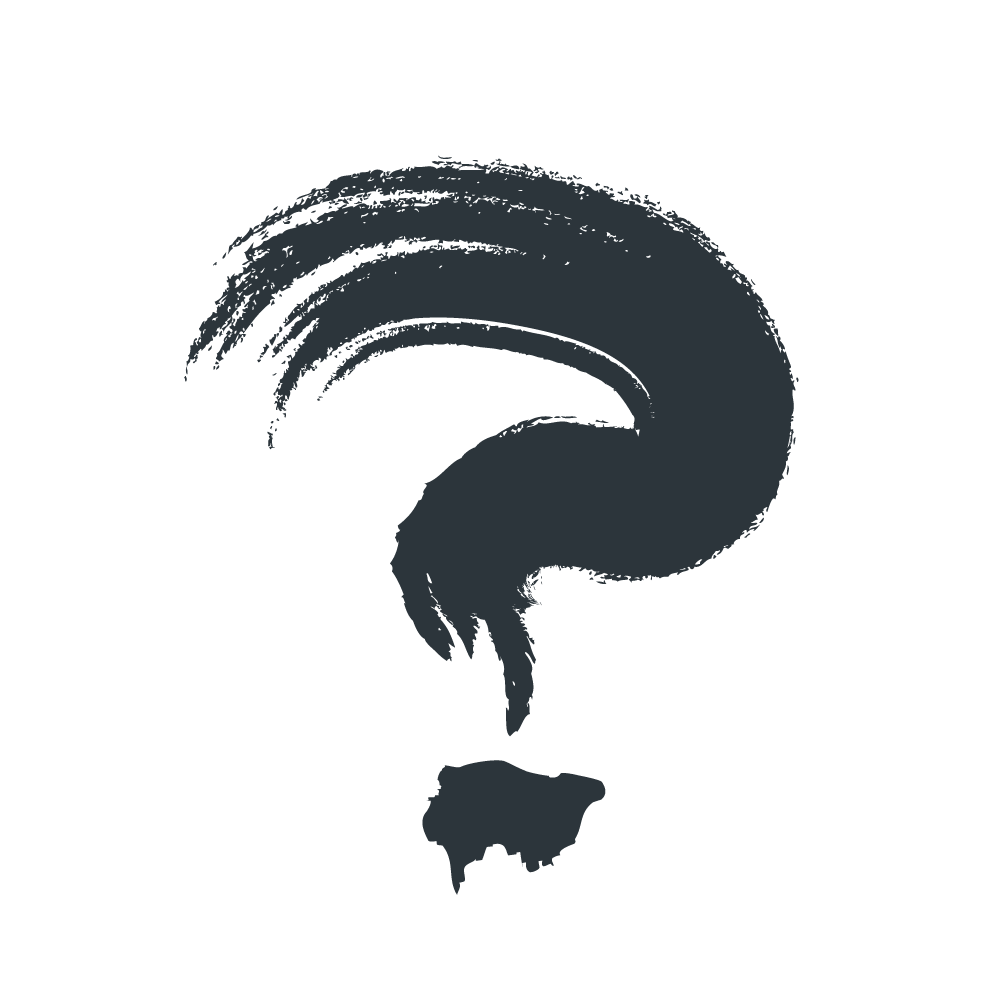
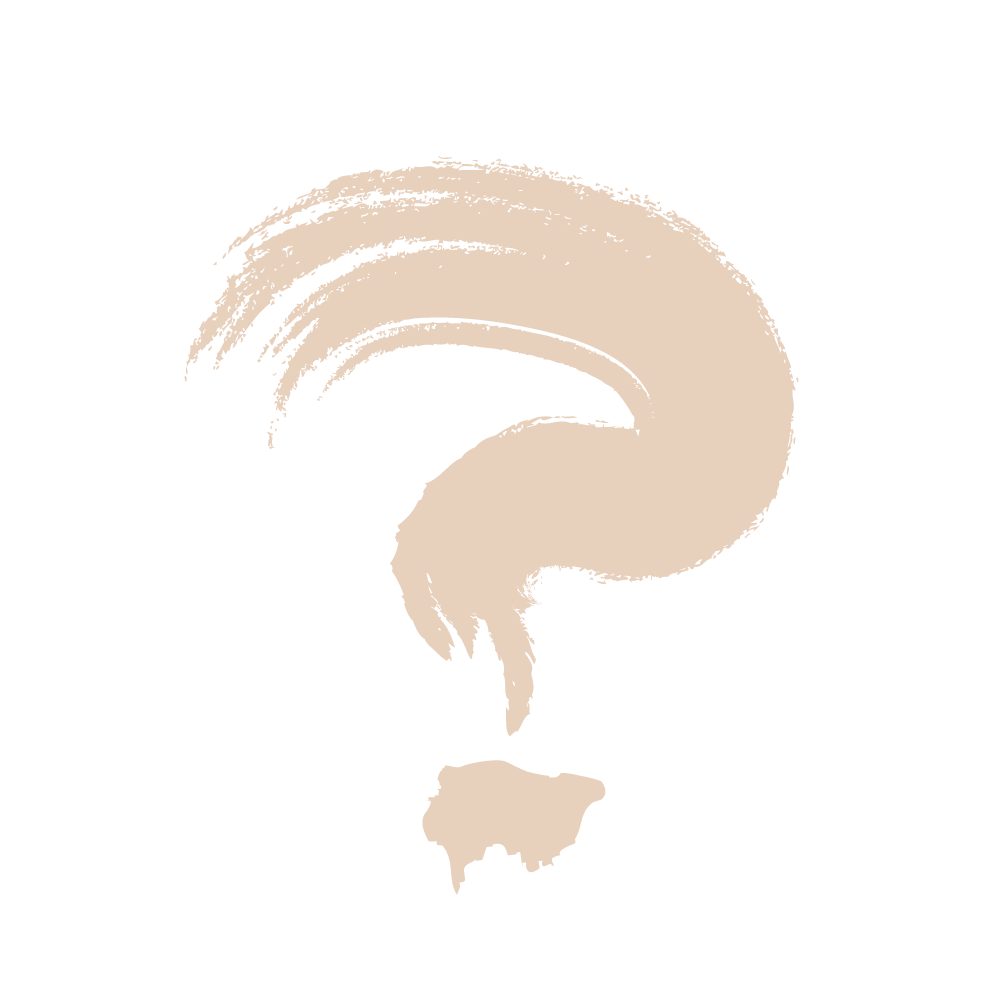
Created colouring using extra images

Changed region(s): [[0.186, 0.155, 0.806, 0.899]]

diff --git a/thankyou.html b/thankyou.html
@@ -22,7 +22,9 @@
     </ul>
 
 
-    <header>
+
+
+    <header class="masthead">
         <div class="grid" role="banner">
             <div class="unit xs-1 s-1 m-1-3 l-1-3 clr2">
               <a href="index.html">
@@ -62,20 +64,8 @@
 
         </div>
       </div>
-
     </header>
 
-
-        <footer class="grid clr2">
-          <div class="unit xs-1 s-1 m-1-3 l-1-3">
-              <a href="index.html">
-                <div class="embed embed--3by1">
-                    <img class="embed__item" src="imgs/inkdwork.png" alt="footer logo">
-                </div>
-              </a>
-            <p>© 2015 Ink'd Work</p>
-          </div>
-        </footer>
 
   </body>
 </html>

diff --git a/sign-up.html b/sign-up.html
@@ -21,8 +21,7 @@
 
     </ul>
 
-
-    <header>
+    <header class="masthead">
         <div class="grid" role="banner">
             <div class="unit xs-1 s-1 m-1-3 l-1-3 clr2">
               <a href="index.html">
@@ -46,7 +45,7 @@
 
               <li>
                 <a href="sign-up.html">
-                  <div class="embed embed--1by1 navicons"><img class="embed__item icon" src="imgs/inkdwork_signicon.png" alt="tour logo"></div>
+                  <div class="embed embed--1by1 navicons"><img class="embed__item icon" src="imgs/inkdwork_signicon2.png" alt="tour logo"></div>
                 </a>
               </li>
             </ol>

diff --git a/pricing.html b/pricing.html
@@ -22,7 +22,7 @@
     </ul>
 
 
-    <header>
+    <header class="masthead">
         <div class="grid" role="banner">
             <div class="unit xs-1 s-1 m-1-3 l-1-3 clr2">
               <a href="index.html">
@@ -40,7 +40,7 @@
 
               <li>
                 <a href="pricing.html">
-                  <div class="embed embed--1by1 navicons"><img class="embed__item icon" src="imgs/inkdwork_priceicon.png" alt="tour logo"></div>
+                  <div class="embed embed--1by1 navicons"><img class="embed__item icon" src="imgs/inkdwork_priceicon2.png" alt="tour logo"></div>
                 </a>
               </li>
 

diff --git a/tour.html b/tour.html
@@ -34,7 +34,7 @@
             <ol>
               <li>
                 <a href="tour.html">
-                  <div class="embed embed--1by1 navicons"><img class="embed__item icon" src="imgs/inkdwork_touricon.png" alt="tour icon"></div>
+                  <div class="embed embed--1by1 navicons"><img class="embed__item icon" src="imgs/inkdwork_touricon2.png" alt="tour icon"></div>
                 </a>
               </li>
 

diff --git a/index.html b/index.html
@@ -74,7 +74,7 @@
       </div>
 
 
-        <div class="grid clr2">
+        <div class="grid clr1">
           <div class="unit xs-1-2 s-1-2 m-1-4 l-1-4 gutter">
               <div class="embed embed--1by1"><img class="embed__item" src="http://placehold.it/130x130" alt="home image"></div>
           </div>

diff --git a/css/main.css b/css/main.css
@@ -154,10 +154,10 @@ p{
 	background-color: #A9A9A9;
 }
 .clr1{
-	background-color: #ECECEC;
+	background-color: #74645C;
 }
 .clr2{
-	background-color: #D3D3D3;
+	background-color: #E6D0BC;
 }
 .clr3{
 	background-color: #808080;
